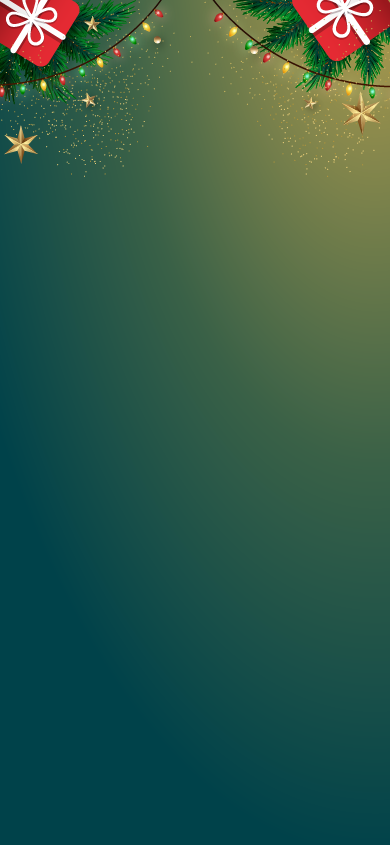
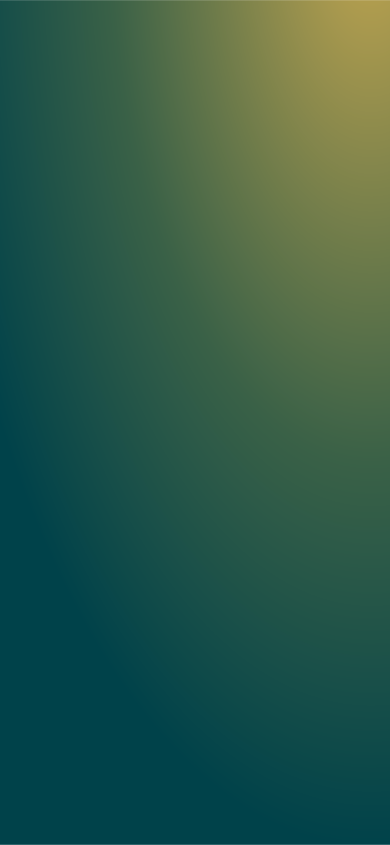
admin changes v1

diff --git a/resources/sass/frontend/_main.scss b/resources/sass/frontend/_main.scss
@@ -81,6 +81,21 @@ button
     background-size: cover;
 }
 
+.main-background::before {
+    content: "";
+    position: absolute;
+    background-image: $main-header;
+    width: 100%;
+    height: 100%;
+    background-size: contain;
+    background-repeat: no-repeat;
+    z-index: 1;
+    pointer-events: none;
+    margin-top: -10px;
+    transform: translateX(-50%);
+    left: 50%;
+}
+
 .weekday-background {
 background-image: $weekday-background;
 background-size: cover;

diff --git a/resources/sass/frontend/_variables.scss b/resources/sass/frontend/_variables.scss
@@ -22,6 +22,7 @@ $border-radius: 0.375rem;
 
 // Add your custom brand variables here
 $main-background: url('../images/main-bg.webp');
+$main-header: url('../images/header_new.webp');
 $weekday-background: url('../images/weekday_background.webp');
 $weekend-background: url('../images/weekend_background.webp');
 $referral-background: url('../images/referral_background.webp');

diff --git a/resources/sass/frontend/_brand.scss b/resources/sass/frontend/_brand.scss
@@ -11,6 +11,7 @@
     width: auto;
     max-width: 100%;
     margin: auto;
+    z-index: 2;
 }
 
 .welcome_img
@@ -44,6 +45,7 @@
     padding-bottom: env(safe-area-inset-bottom) ;
     padding: 40px 20px;
     height: 100svh;
+    z-index: 1;
 }
 
 // input

diff --git a/app/Http/Controllers/Admin/DashboardController.php b/app/Http/Controllers/Admin/DashboardController.php
@@ -22,7 +22,9 @@ class DashboardController extends Controller
             'todayCustomers' => $this->getTodayCustomers(),
             'completionRate' => $this->getCompletionRate(),
             'customersFinished' => $this->getCustomersFinished(),
+            'stationCounts' => $this->getStationCounts(),
         ];
+        
 
         $chartData = [
             'registrations' => $this->getRegistrationChartData(),
@@ -370,39 +372,39 @@ class DashboardController extends Controller
         })
         ->sort()
         ->values()
-    ->toArray();
+        ->toArray();
 
         $dates = $registrationsPerHour->flatten()->pluck('date')->unique()->sort()->values()->toArray();
 
         // Sort hours chronologically
-$sortedHours = $registrationsPerHour->keys()
-    ->sortBy(function ($hour) {
-        return \Carbon\Carbon::createFromFormat('gA', strtoupper($hour))->hour;
-    })
-    ->values();
+        $sortedHours = $registrationsPerHour->keys()
+            ->sortBy(function ($hour) {
+                return \Carbon\Carbon::createFromFormat('gA', strtoupper($hour))->hour;
+            })
+            ->values();
 
-// Format hours for display (e.g., 10am, 11am)
-$hours = $sortedHours->map(function ($hour) {
-    return \Carbon\Carbon::createFromFormat('gA', strtoupper($hour))->format('ga');
-})->toArray();
+        // Format hours for display (e.g., 10am, 11am)
+        $hours = $sortedHours->map(function ($hour) {
+            return \Carbon\Carbon::createFromFormat('gA', strtoupper($hour))->format('ga');
+        })->toArray();
 
-// Prepare series data
-$series = [];
+        // Prepare series data
+        $series = [];
 
-foreach ($dates as $date) {
-    $dataPerHour = [];
+        foreach ($dates as $date) {
+            $dataPerHour = [];
 
-    foreach ($sortedHours as $hour) {
-        // Get the registration count for this date & hour, default 0
-        $row = $registrationsPerHour[$hour]->firstWhere('date', $date);
-        $dataPerHour[] = $row->registrations ?? 0;
-    }
+            foreach ($sortedHours as $hour) {
+                // Get the registration count for this date & hour, default 0
+                $row = $registrationsPerHour[$hour]->firstWhere('date', $date);
+                $dataPerHour[] = $row->registrations ?? 0;
+            }
 
-    $series[] = [
-        'name' => $date,
-        'data' => $dataPerHour
-    ];
-}
+            $series[] = [
+                'name' => $date,
+                'data' => $dataPerHour
+            ];
+        }
 
     return[
         'dates'  => $dates,
@@ -412,6 +414,20 @@ foreach ($dates as $date) {
 
         // dd($registrationsPerHour->toArray());
 
+    }
+
+    private function getStationCounts():array
+    {
+        $counts = StationUser::select(
+            'station_id',
+            DB::raw('COUNT(DISTINCT user_id) as total')
+        )
+        ->groupBy('station_id')
+        ->pluck('total', 'station_id');
+
+        return  [
+            'counts' => $counts
+        ];
     }
 
 }

diff --git a/resources/views/admin/dashboard.blade.php b/resources/views/admin/dashboard.blade.php
@@ -43,17 +43,17 @@
 
     <!-- Banner Cards -->
     <x-admin.banner-card 
-        gradient="linear-gradient(90deg, #003366 0%, #0066cc 100%)">
+        gradient="linear-gradient(90deg, #003366 0%, #0066cc 100%)" :count="$stats['stationCounts']['counts'][1] ?? 0">
         <x-slot:title>Weekdays<br>Reward</x-slot:title>
     </x-admin.banner-card>
 
     <x-admin.banner-card 
-        gradient="linear-gradient(90deg, #660000 0%, #cc0000 100%)">
+        gradient="linear-gradient(90deg, #660000 0%, #cc0000 100%)" :count="$stats['stationCounts']['counts'][2] ?? 0">
         <x-slot:title>Weekends<br>Reward</x-slot:title>
     </x-admin.banner-card>
 
     <x-admin.banner-card 
-        gradient="linear-gradient(90deg, #003300 0%, #339900 100%)">
+        gradient="linear-gradient(90deg, #003300 0%, #339900 100%)" :count="$stats['stationCounts']['counts'][3] ?? 0">
         <x-slot:title>Referral<br>Reward</x-slot:title>
     </x-admin.banner-card>
 

diff --git a/resources/views/components/admin/banner-card.blade.php b/resources/views/components/admin/banner-card.blade.php
@@ -1,10 +1,15 @@
-@props(['title', 'gradient'])
+@props(['title', 'gradient','count' => 0])
 
 <div class="col-md-4">
     <div class="card bg-primary text-primary-fg">
         <div class="card-body" style="background: {{ $gradient }}; border-radius: 4px;">
             <div class="text-center py-4">
                 <h3 class="mb-0">{!! $title !!}</h3>
+
+                <div class="mt-2 text-lg fw-bold">
+                    {{ $count }} redeemed
+                </div>
+
             </div>
         </div>
     </div>

diff --git a/resources/views/auth/login.blade.php b/resources/views/auth/login.blade.php
@@ -4,7 +4,7 @@
 
 @section('content')
 <div class="login-page">
-        <div class="main-content main-background with-scroll">
+        <div class="main-content with-scroll">
             <div class="justify-content-center w-100">
             <div class="col-12 animate-entry mb-4">
                 @include('components.branding')
